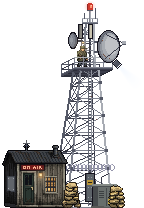
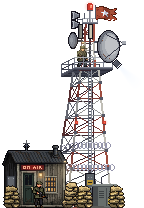
M5: Broadcast tower T5 (banded tower, flag, loudspeakers, guard), sw v420

diff --git a/sw.js b/sw.js
@@ -15,7 +15,7 @@
  * edited CSS/JS) so returning users pick up the update instead of serving a
  * stale cached shell forever — the whole point of a version string here.
  */
-const CACHE_NAME = 'deadline-shell-v419';
+const CACHE_NAME = 'deadline-shell-v420';
 
 const APP_SHELL = [
     './',

diff --git a/Assets/Village/_source/broadcast-3q/scripts/bt208.py b/Assets/Village/_source/broadcast-3q/scripts/bt208.py
@@ -18,6 +18,7 @@ def make(soldier=False, steel_only=False, station_only=False, tier=3, figure=Non
     RED=((158,76,62),(124,58,52),(84,44,46),(58,34,42)); WHT=((192,190,182),(150,150,148),(100,102,112),(64,66,78)); GALV=(ST_L,ST_M,ST_D,ST_DD)
     def pal(i,n,off=0):
         if not bands: return GALV
+        if off==9: return RED if (n-1-i)*3//n!=1 else WHT          # the slim upper mast: thirds, red / white / red from the top
         return RED if (n-1-i+off)%2==0 else WHT
     def lattice(h0,h1,wb,wt_,n,xb=True,legw=2,sideK=0.36,ease=1.12,off=0):
         half=lambda h: (wb+(wt_-wb)*(h-h0)/(h1-h0))/2
@@ -60,6 +61,9 @@ def make(soldier=False, steel_only=False, station_only=False, tier=3, figure=Non
         legs(fl,fr,secs,2,off=1)
         for a,b in secs[1:]:                                    # gusset plates at the joints
             for x in (fl(a),fr(a)): d.rectangle([x-1,Y(a)-1,x+1,Y(a)+1],fill=ST_D+(255,))
+        if tier>=5:
+            for x in (fl(84),fr(84)):
+                x=int(round(x)); d.rectangle([x-1,Y(84)-2,x+1,Y(84)],fill=(206,58,46,255)); d.point((x,Y(84)-1),fill=(255,150,116,255)); d.line([x-1,Y(84)+1,x+1,Y(84)+1],fill=ST_DD+(255,))
         for _ in range(60):
             x=rnd.randint(40,116); y=rnd.randint(Y(PH),G-6)
             if P[x,y][3] and sum(P[x,y][:3])>330: P[x,y]=RUST+(255,)
@@ -67,7 +71,7 @@ def make(soldier=False, steel_only=False, station_only=False, tier=3, figure=Non
             d.rectangle([CX-5,Y(34),CX+4,Y(6)],fill=OUT+(255,)); d.rectangle([CX-4,Y(33),CX+3,Y(7)],fill=(92,98,104,255)); d.line([CX-4,Y(33),CX-4,Y(7)],fill=(66,70,78,255))
             for hh in (30,20,10): d.point((CX-2,Y(hh)),fill=(150,154,160,255)); d.point((CX+1,Y(hh)),fill=(150,154,160,255))
             d.rectangle([CX-3,Y(27),CX+2,Y(23)],fill=(186,150,58,255)); d.line([CX-2,Y(25),CX+1,Y(25)],fill=(40,36,30,255))
-            for hw in (40,):                                          # coil across the front face and round the side
+            for hw in ((40,62) if tier>=5 else (40,)):                                          # coil across the front face and round the side
                 x0_=int(fl(hw))-int((fr(hw)-fl(hw))*0.36)-1; x1_=int(fr(hw))+2
                 for x in range(x0_,x1_,4):
                     yy=Y(hw)+ (round((int(fl(hw))-x)*sl(hw)) if x<fl(hw) else 0)
@@ -84,9 +88,9 @@ def make(soldier=False, steel_only=False, station_only=False, tier=3, figure=Non
         mxp=dl-dep//2; myp=round((dep//2)*sl(PH)); d.line([mxp,pf-RH+myp,mxp,pf+myp],fill=ST_D+(255,))
         d.line([dl-dep,pf-RH+drop,dl-dep,pf+drop],fill=ST_D+(255,))
         # ---------- upper mast ----------
-        ufl,ufr,ubl,ubr,usecs=lattice(PH+1,TOP,11,8,5,xb=False,legw=1,sideK=0.4,ease=1.0)
+        ufl,ufr,ubl,ubr,usecs=lattice(PH+1,TOP,11,8,5,xb=False,legw=1,sideK=0.4,ease=1.0,off=9)
         d.line([CX-1,py,CX-1,Y(TOP)],fill=(60,62,74,255))
-        legs(ufl,ufr,usecs,2)
+        legs(ufl,ufr,usecs,2,off=9)
         if soldier:
             sx0=dl+3; f=pf+1
             OL=(84,92,66); OLD=(60,66,50); SK=(184,140,108)
@@ -115,6 +119,13 @@ def make(soldier=False, steel_only=False, station_only=False, tier=3, figure=Non
         d.rectangle([CX-3,Y(TOP+13),CX+2,Y(TOP+13)],fill=ST_D+(255,))
         d.rectangle([CX-3,Y(TOP+19),CX+2,Y(TOP+14)],fill=(206,58,46,255)); d.rectangle([CX-2,Y(TOP+20),CX+1,Y(TOP+20)],fill=(206,58,46,255))
         d.rectangle([CX-3,Y(TOP+19),CX-3,Y(TOP+14)],fill=(146,38,36,255)); d.rectangle([CX,Y(TOP+18),CX+1,Y(TOP+16)],fill=(255,150,116,255)); d.point((CX+1,Y(TOP+18)),fill=(255,210,180,255))
+        if tier>=5:                                                 # a pair of loudspeaker horns off the cap platform's left side, mouths facing left
+            d.line([CX-13,ty-4,CX-8,ty-4],fill=ST_D+(255,)); d.line([CX-13,ty-10,CX-13,ty+4],fill=ST_DD+(255,))     # arm + yoke
+            for cyh in (ty-8,ty+1):
+                mx=CX-18
+                d.polygon([(mx-1,cyh-4),(mx+3,cyh-4),(mx+7,cyh-2),(mx+7,cyh+2),(mx+3,cyh+4),(mx-1,cyh+4)],fill=OUT+(255,))
+                d.polygon([(mx+2,cyh-3),(mx+6,cyh-1),(mx+6,cyh+1),(mx+2,cyh+3)],fill=(112,116,128,255)); d.line([mx+2,cyh-3,mx+6,cyh-1],fill=(150,154,164,255))
+                d.rectangle([mx,cyh-3,mx+1,cyh+3],fill=(182,186,194,255)); d.rectangle([mx,cyh-2,mx,cyh+2],fill=(58,60,72,255)); d.point((mx,cyh),fill=(34,34,44,255))
         # ---------- panel antennas ----------
         PA=(202,196,176); PAD=(134,132,126); hp=TOP-14
         for x,c,cs in ((int(ufl(hp))-6,PAD,(100,100,98)),(CX-1,PA,PAD)):

diff --git a/Assets/Village/_source/broadcast-3q/scripts/finish.py b/Assets/Village/_source/broadcast-3q/scripts/finish.py
@@ -33,7 +33,7 @@ def glow(im,cx,cy,R,col,k0,cap=150,shape=None,opaque_only=False):
 def station_for(tier):
     st=station_pl()
     if tier>=4:                                                   # T4 additions drawn in code, laid over the PixelLab station
-        a=C.station_code(3).load(); bim=C.station_code(4); b=bim.load(); P=st.load()
+        a=C.station_code(3).load(); bim=C.station_code(tier); b=bim.load(); P=st.load()
         for y in range(H):
             for x in range(W):
                 if a[x,y]!=b[x,y] and b[x,y][3]: P[x,y]=b[x,y]
@@ -62,12 +62,21 @@ def cone(im,x0,y0,ang,length,half0,half1,col,k0,cap=110):
             else:
                 al=int(min(cap,255*k*0.9))
                 if al>=7 and a<al: P[x,y]=col+(al,)
-def build(soldier=False,station=None,tier=3,figure=None,front_rail=True,lights=True,bands=False):
+def build(soldier=False,station=None,tier=3,figure=None,front_rail=True,lights=True,bands=False,guard=None,flag=True):
     import math
     im=C.compose(station or station_for(tier),soldier,tier,figure,front_rail,bands)
     if tier>=4:
         PC='/home/claude/deadline-repo/Assets/Village/_source/clock-3q/pieces/'
         paste_piece(im,PC+'gymL_r2.png',61,H-1); paste_piece(im,PC+'gymR_r1.png',108,H-1)
+    if tier>=5:
+        paste_piece(im,PC+'gymR_r1.png',3,H-1,dim=0.86)                     # third stack at the station's shaded left corner
+        paste_piece(im,PC+'gymR_r1.png',76,H-1)                             # and one more beside the first, a low wall up to the ladder plate
+        if guard is not None: im.alpha_composite(guard)
+        if flag:                                                           # the shared survivor flag, on the right whip antenna beside the beacon
+            fx0,fy0=B.CX+5,Y(B.TOP+15)
+            P=im.load()
+            for yy in range(fy0-3,fy0+1): P[fx0,yy]=(84,88,102,255)         # the whip runs 3px higher to carry it
+            fl_=clean(Image.open(PC+'flag_r1.png')); im.alpha_composite(fl_,(fx0+1,fy0-3))
     if not lights: return im
     keep=im.copy()
     glow(im,B.CX-0.5,Y(B.TOP+17),7,(240,84,60),0.55,cap=120)
@@ -90,6 +99,15 @@ def build(soldier=False,station=None,tier=3,figure=None,front_rail=True,lights=T
         for yy in range(uy-1,uy+9):                                 # keep the housing and lens crisp
             for xx in range(ux-4,ux+6):
                 if kp[xx,yy][3]==255: P[xx,yy]=kp[xx,yy]
+    if tier>=5:
+        for hx in (-1,1):                                           # blooms on the mid-level obstruction lights
+            half=(44+(18-44)*84/B.PH)/2; x=round(B.CX+hx*half)
+            glow(im,x,Y(84)-1,4,(240,84,60),0.5,cap=110)
+        P=im.load()                                               # yard light on the station roof's right end, washing the sandbags and the tower foot
+        for (xx,yy,cc) in ((64,Y(47),(60,62,74)),(65,Y(47),(60,62,74)),(64,Y(46),(255,236,190)),(65,Y(46),(250,214,150))): P[xx,yy]=cc+(255,)
+        glow(im,66,Y(36),17,(255,220,160),0.30,opaque_only=True,shape=0.9)
+        glow(im,64.5,Y(46)+0.5,3,(255,220,160),0.5,cap=100)
+        glow(im,32,Y(39),11,(230,70,56),0.14,opaque_only=True,shape=1.6)           # the sign burns a little brighter
     return im
 if __name__=='__main__':
     t3=build(); t3.save('bt_t3_v1_128x208.png'); print(t3.getbbox())

diff --git a/Assets/Village/_source/broadcast-3q/scripts/README.md b/Assets/Village/_source/broadcast-3q/scripts/README.md
@@ -19,3 +19,11 @@ Everything that must show on a phone sits in the top 67 px of the art (beacon, d
 - Small dish raised (TOP-17) on every tier so the lookout fits under it.
 - T4 (`make(tier=4, figure=...)`, `finish.build(tier=4, figure=...)`): the lookout (`figure.py`: PixelLab inpaint `../pieces/lookout_pixellab_raw.png`, lifted off the redrawn steel, helmet redrawn as a soft cap, brightened), a deck work lamp on the mast, the floodlight on the platform's front-right corner under the big dish at 45 degrees (the reason the canvas grew 128 -> 144: open air for the beam), barred + plated station windows, the Gym's sandbag stacks (`clock-3q/pieces/gym*`), a wire coil round the legs, an anti-climb plate over the ladder foot.
 - `bands=True` paints the whole tower in dull red / off-white bands (planned for T5, Jeremy: the whole mast).
+
+## 2026-11-24 late: T5 final
+- `broadcast_t5_final_144x208.png` (Jeremy approved). `finish.build(tier=5, figure=lookout, bands=True, guard=guard)`.
+- Whole tower in dull red / off-white bands (base: one band per bracing section, counted from the top; slim upper mast: thirds, red / white / red).
+- The shared survivor flag (`clock-3q/pieces/flag_r1.png`) on the right whip antenna beside the beacon; a pair of loudspeaker horns off the cap platform's left side.
+- Two red obstruction lights halfway up the front legs, a second wire coil round the legs, two more Gym sandbag stacks, a yard light on the station roof's right end.
+- The guard under the door lamp: PixelLab `generate-image-v2` at 32x48 (`../pieces/guard_pixellab_32x48.png`, pick 12 of 36), `resize` to 21x32.
+- No barbed wire on the station roof (Jeremy had it removed).
